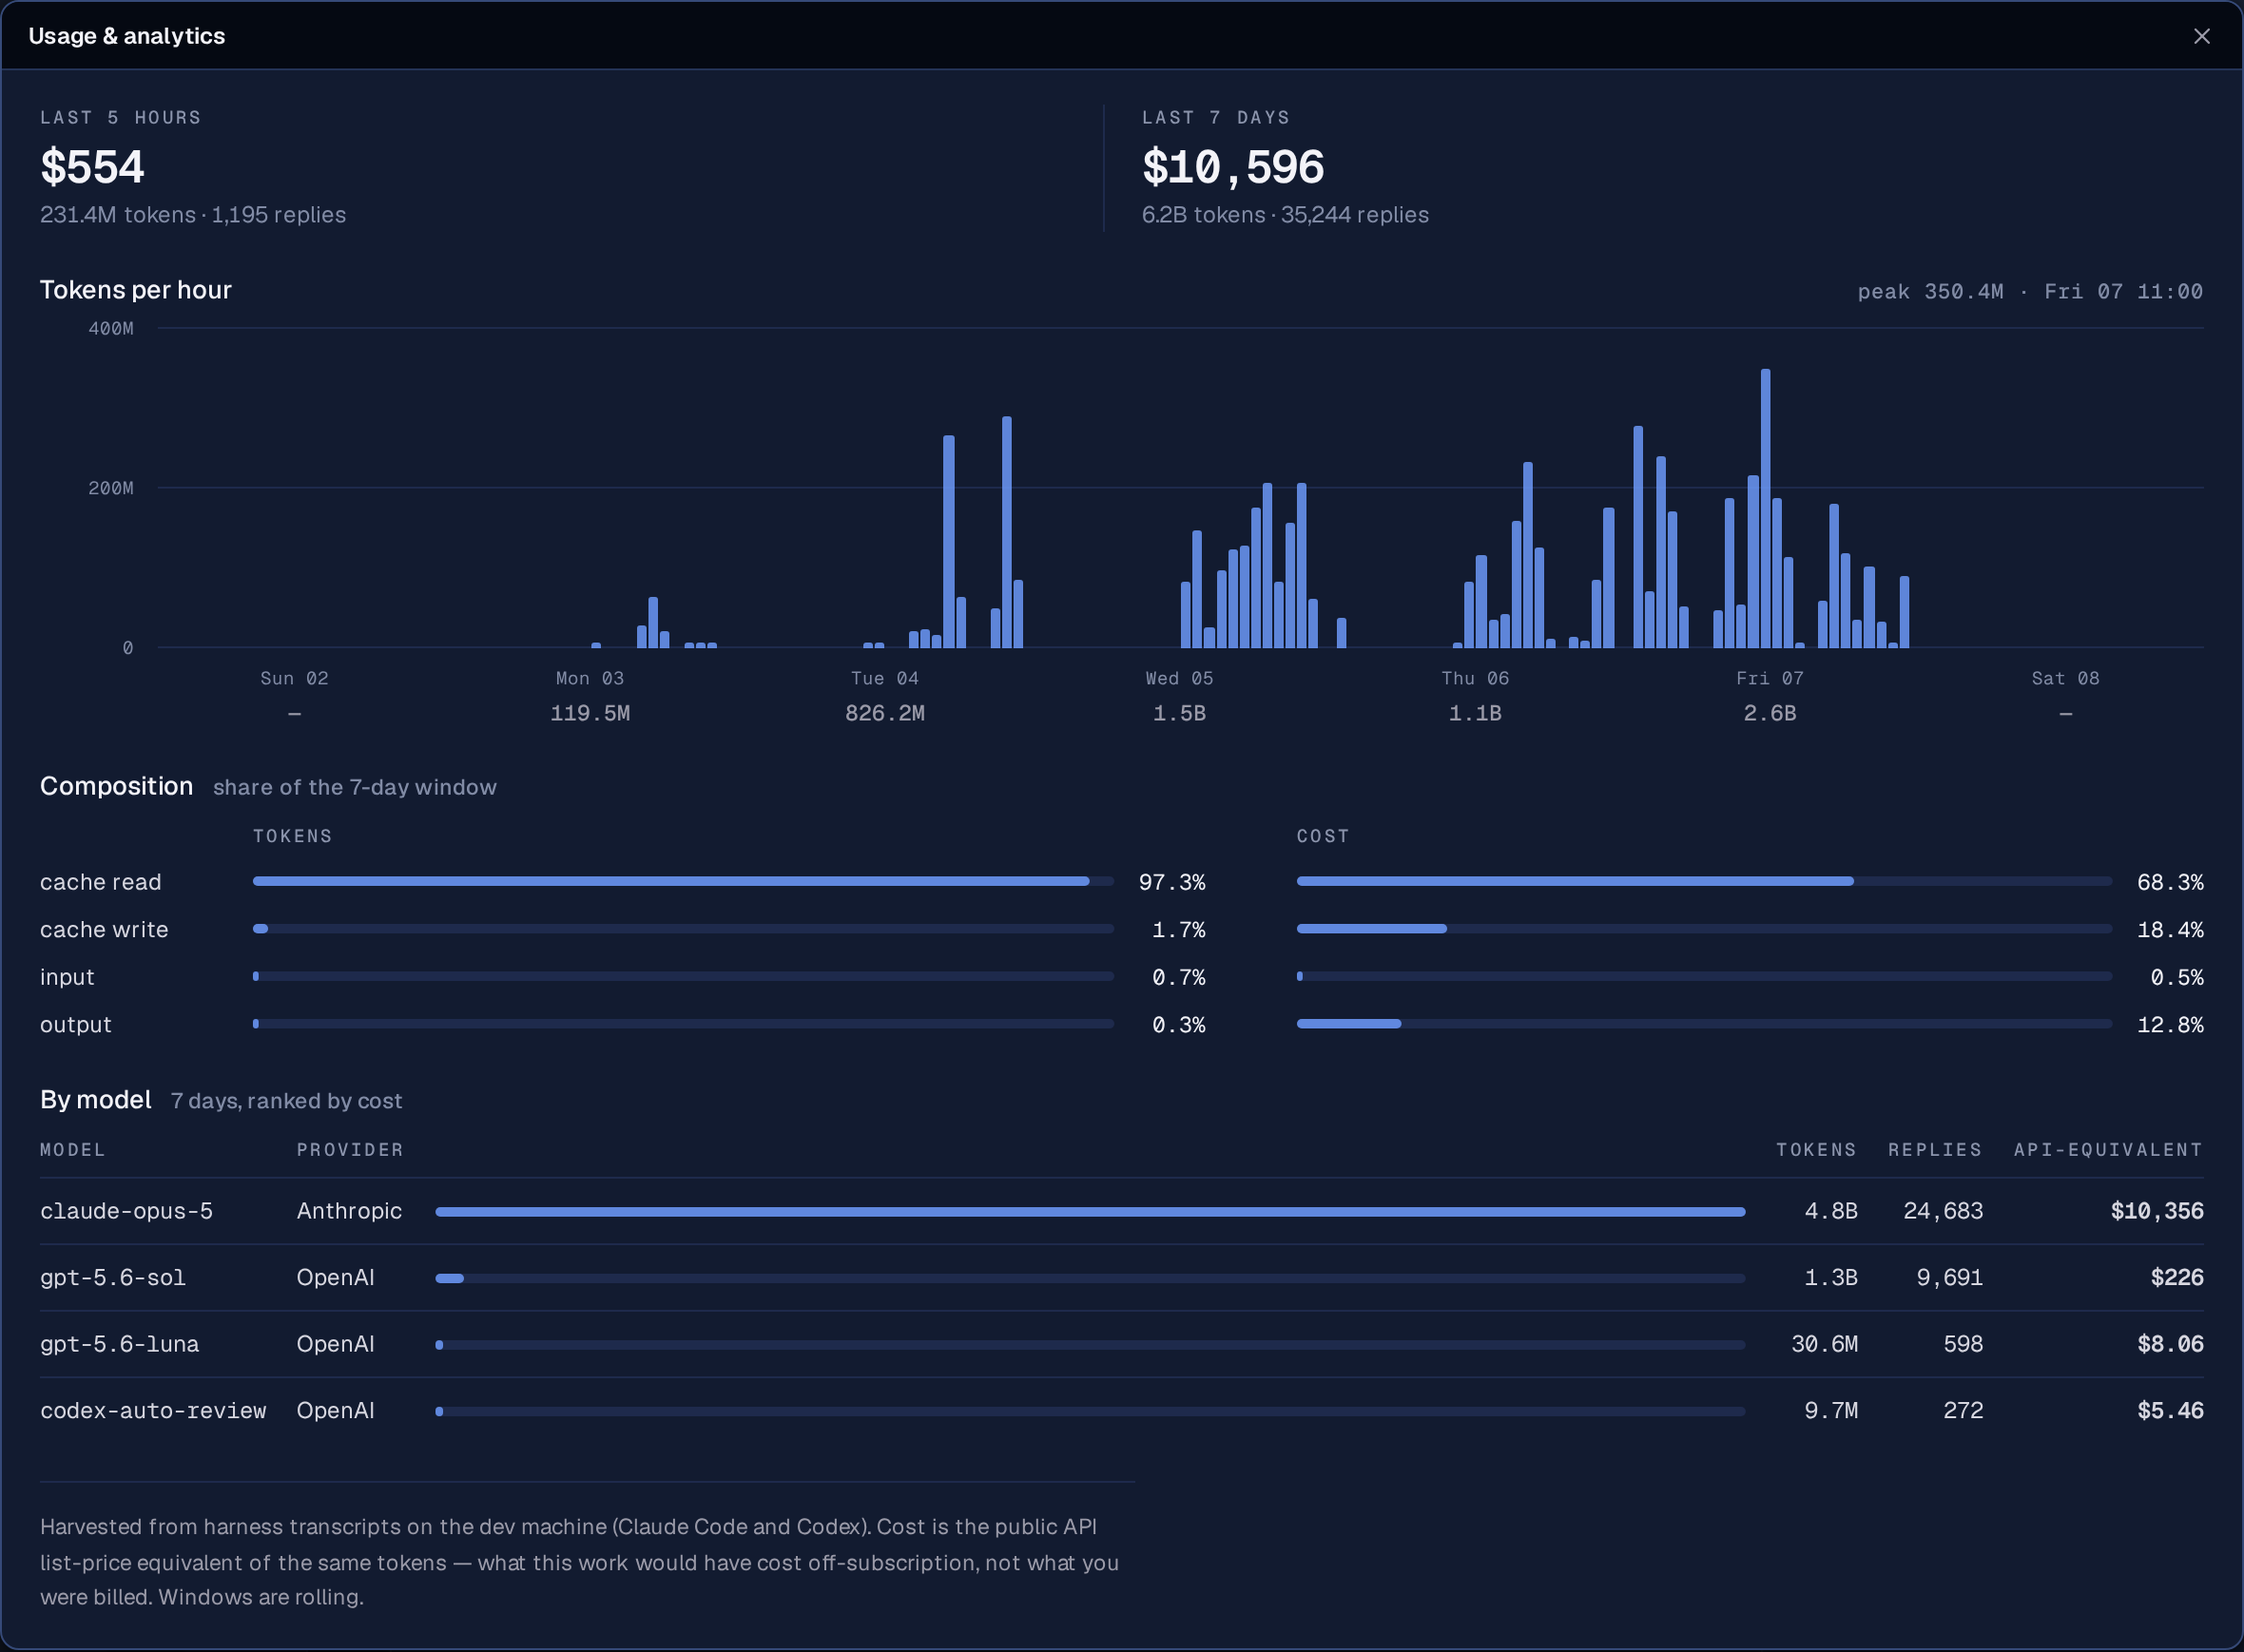
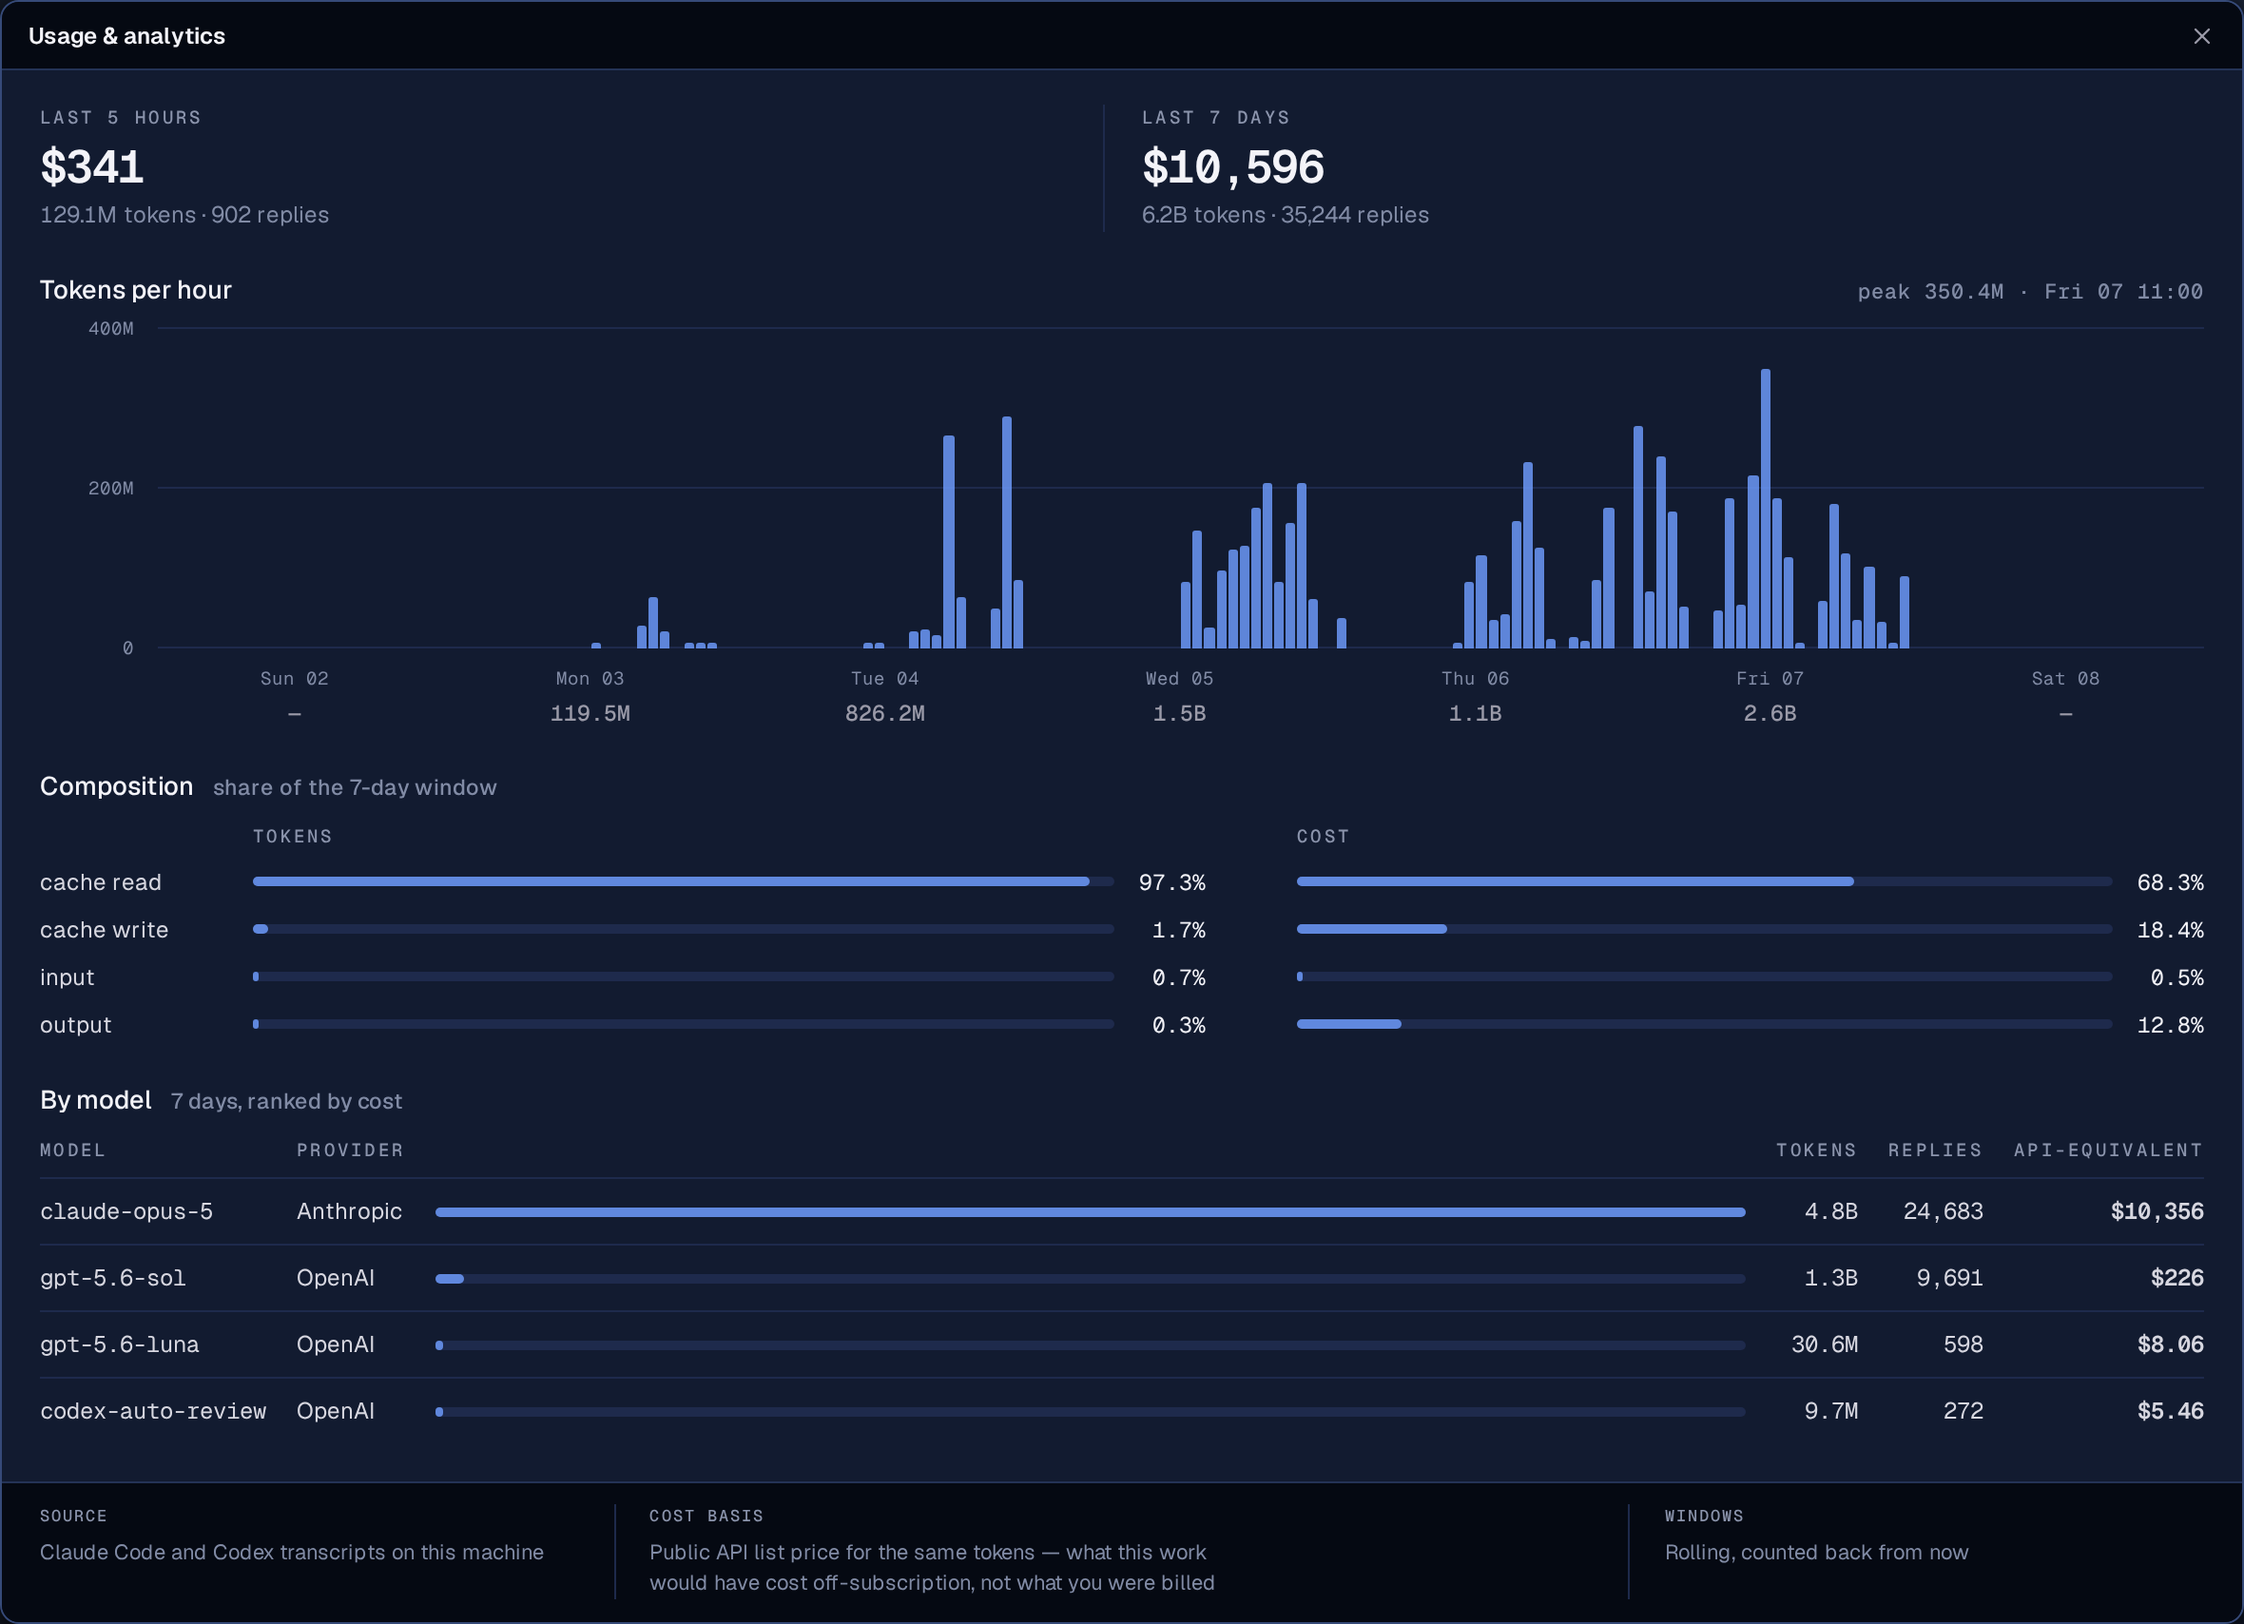
feat(usage): close the sheet with a footer bar, not a paragraph (POD-596)
The provenance note was a 72ch paragraph under a full-width rule, which left the
bottom of the sheet as one block of text against the left edge with a hand's
breadth of nothing beside it — the "content stopped halfway" tell, moved to the
bottom of the surface.

A window does not end that way; it closes. The note is now the frame's bottom
edge: full-bleed out of the body's padding, `--bar` toned and hairline-topped —
the mirror of the sheet's own 36px header — carrying the three facts as labelled
cells divided exactly the way the two window readouts at the top of the sheet
are. The surface opens and closes on the same grammar, and the fine print fills
the width as structure instead of trailing off as prose.

Its type stays at the shell's 12px scale rather than the Reading Tier the
content above uses: chrome never joins that tier (POD-407).

Copy is split rather than rewritten — SOURCE / COST BASIS / WINDOWS — so the
caveat the sheet cannot do without, that an API-equivalent is not an invoice,
keeps its own labelled cell now that the sheet leads with a dollar figure.

Verified in the isolated instance: dark, Daylight, cold, and at 900px.

diff --git a/apps/web/src/styles.css b/apps/web/src/styles.css
@@ -4154,15 +4154,69 @@ a.ref-link--session::before {
   display: block;
 }
 
-.usage-note {
+/* ── The footer bar ──────────────────────────────────────────────────────────
+   THE SHEET CLOSES, it does not trail off. As a 72ch paragraph under a
+   full-width rule this was one block of text against the left edge with a
+   hand's breadth of nothing beside it — the "content stopped halfway" tell, at
+   the bottom of the surface instead of the side. It is now the frame's bottom
+   edge: full-bleed out of the body's padding, `--bar` toned and hairline-topped,
+   the mirror of the sheet's own header, with the three facts in labelled cells
+   divided exactly the way the two window readouts at the top are.
+
+   Its type stays at the shell's scale rather than the Reading Tier the content
+   above uses: chrome never joins that tier (POD-407) — a frame whose text grew
+   with its contents stops reading as the frame. */
+.usage-provenance {
+  display: flex;
   flex: none;
-  margin: 0;
-  padding-top: 14px;
-  border-top: 1px solid var(--hairline-soft);
-  max-width: 72ch;
-  color: var(--muted-foreground);
-  font-size: 11.5px;
-  line-height: 1.6;
+  /* Stretch, not flex-start: the cells divide by a border, and a border whose
+     height is its own cell's content makes three rules of three different
+     lengths out of what is meant to be one row of dividers. */
+  align-items: stretch;
+  /* Out of the body's 18px/20px padding, so the bar meets the sheet's own
+     edges. The gap above it is the body's; the bar owns the space below. */
+  margin: 0 -20px -18px;
+  padding: 11px 20px 12px;
+  border-top: 1px solid var(--border);
+  background: var(--bar);
+}
+.usage-prov {
+  flex: 1;
+  min-width: 0;
+  padding: 0 18px;
+  border-left: 1px solid var(--hairline-soft);
+}
+/* The cost caveat is the long one and the one that must not wrap to four lines;
+   it takes the room the two short facts do not need. */
+.usage-prov[data-wide] {
+  flex: 1.75;
+}
+.usage-prov:first-child {
+  padding-left: 0;
+  border-left: 0;
+}
+.usage-prov:last-child {
+  padding-right: 0;
+}
+.usage-prov-label {
+  display: block;
+  color: var(--label);
+  font-family: var(--font-mono);
+  font-size: 8.5px;
+  font-weight: 500;
+  letter-spacing: 0.12em;
+  text-transform: uppercase;
+}
+.usage-prov-value {
+  display: block;
+  margin-top: 4px;
+  color: var(--text-dim);
+  font-size: 11px;
+  line-height: 1.5;
+  /* Balanced, not ragged: the cost caveat runs to two lines in its cell, and
+     the default break left a full line against three orphaned words. Two even
+     lines is what makes a footer cell read as a block rather than a spill. */
+  text-wrap: balance;
 }
 .usage-empty {
   display: grid;

diff --git a/apps/web/src/features/usage/UsageView.tsx b/apps/web/src/features/usage/UsageView.tsx
@@ -136,12 +136,49 @@ function UsageBody({
       <UsageTrace summary={s} cold={cold} arrived={arrived} />
       <UsageComposition summary={s} cold={cold} />
       <UsageModels summary={s} cold={cold} />
-      <p className="usage-note">
-        Harvested from harness transcripts on the dev machine (Claude Code and Codex). Cost is the
-        public API list-price equivalent of the same tokens — what this work would have cost
-        off-subscription, not what you were billed. Windows are rolling.
-      </p>
+      <UsageProvenance />
     </div>
+  )
+}
+
+/**
+ * Where these numbers come from — the sheet's footer bar.
+ *
+ * It was a paragraph capped at a 72ch measure under a full-width rule, which
+ * left the bottom third of the sheet as one block of text pushed against the
+ * left edge and a hand's breadth of nothing beside it. A window does not end
+ * that way: it CLOSES (DESIGN.md, The Status Strip). So the fine print became
+ * the frame's bottom edge — full-bleed, `--bar` toned and hairline-topped, the
+ * mirror of the sheet's own 36px header — carrying the three facts as labelled
+ * cells divided the way the two window readouts at the top of the sheet are.
+ * The surface opens and closes on the same grammar.
+ *
+ * Its type does NOT join the Reading Tier the sheet's content uses: chrome never
+ * does (POD-407), and a frame whose text grew with its contents stops reading as
+ * the frame.
+ */
+function UsageProvenance(): JSX.Element {
+  const facts = [
+    { label: 'Source', value: 'Claude Code and Codex transcripts on this machine', wide: false },
+    {
+      label: 'Cost basis',
+      // The caveat the sheet cannot do without, now that it leads with a dollar
+      // figure: an API-equivalent is not an invoice.
+      value:
+        'Public API list price for the same tokens — what this work would have cost off-subscription, not what you were billed',
+      wide: true,
+    },
+    { label: 'Windows', value: 'Rolling, counted back from now', wide: false },
+  ]
+  return (
+    <footer className="usage-provenance">
+      {facts.map((f) => (
+        <div key={f.label} className="usage-prov" data-wide={f.wide || undefined}>
+          <span className="usage-prov-label">{f.label}</span>
+          <span className="usage-prov-value">{f.value}</span>
+        </div>
+      ))}
+    </footer>
   )
 }
 
